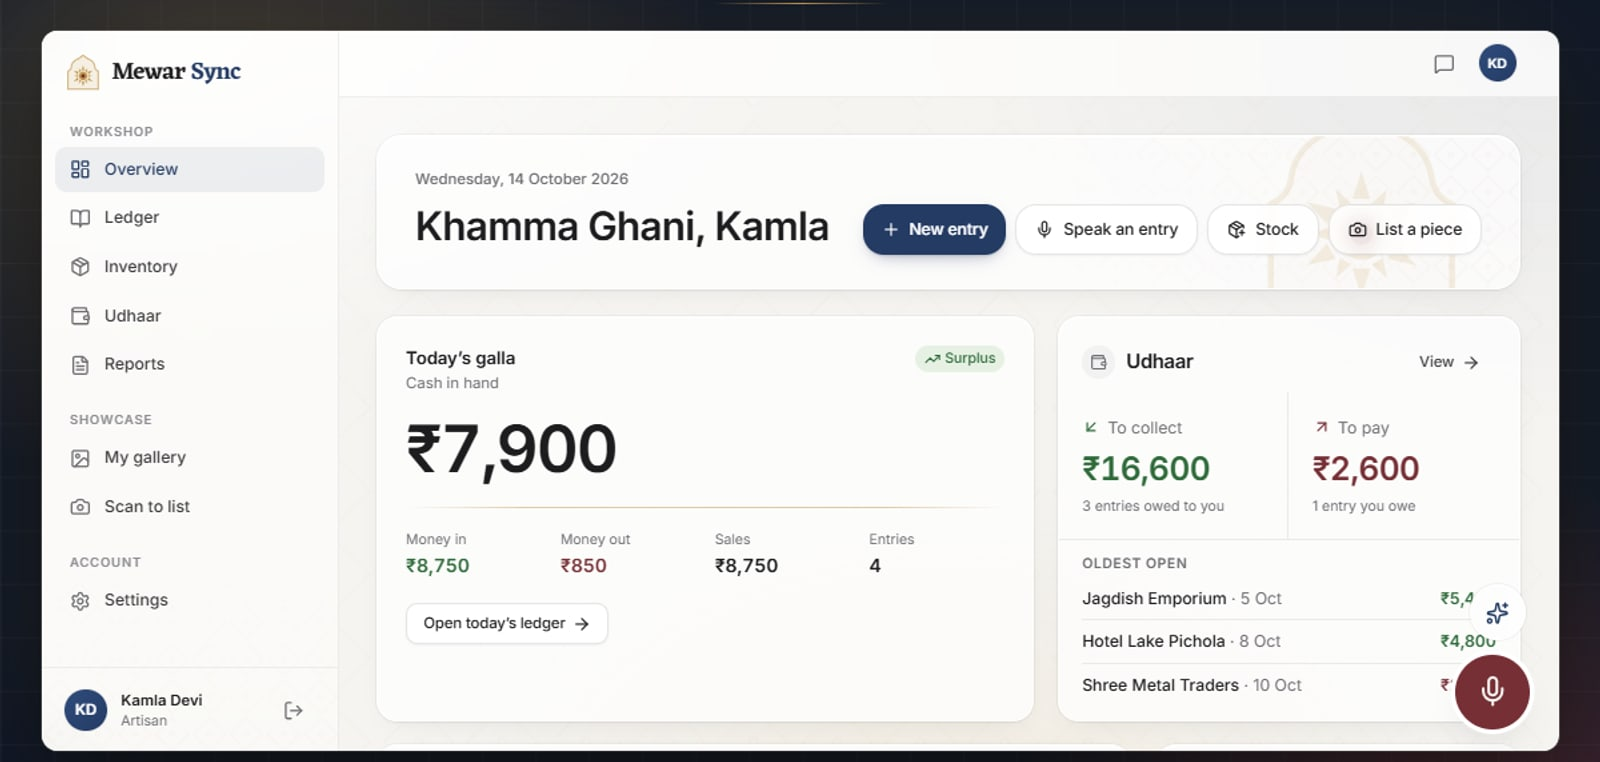
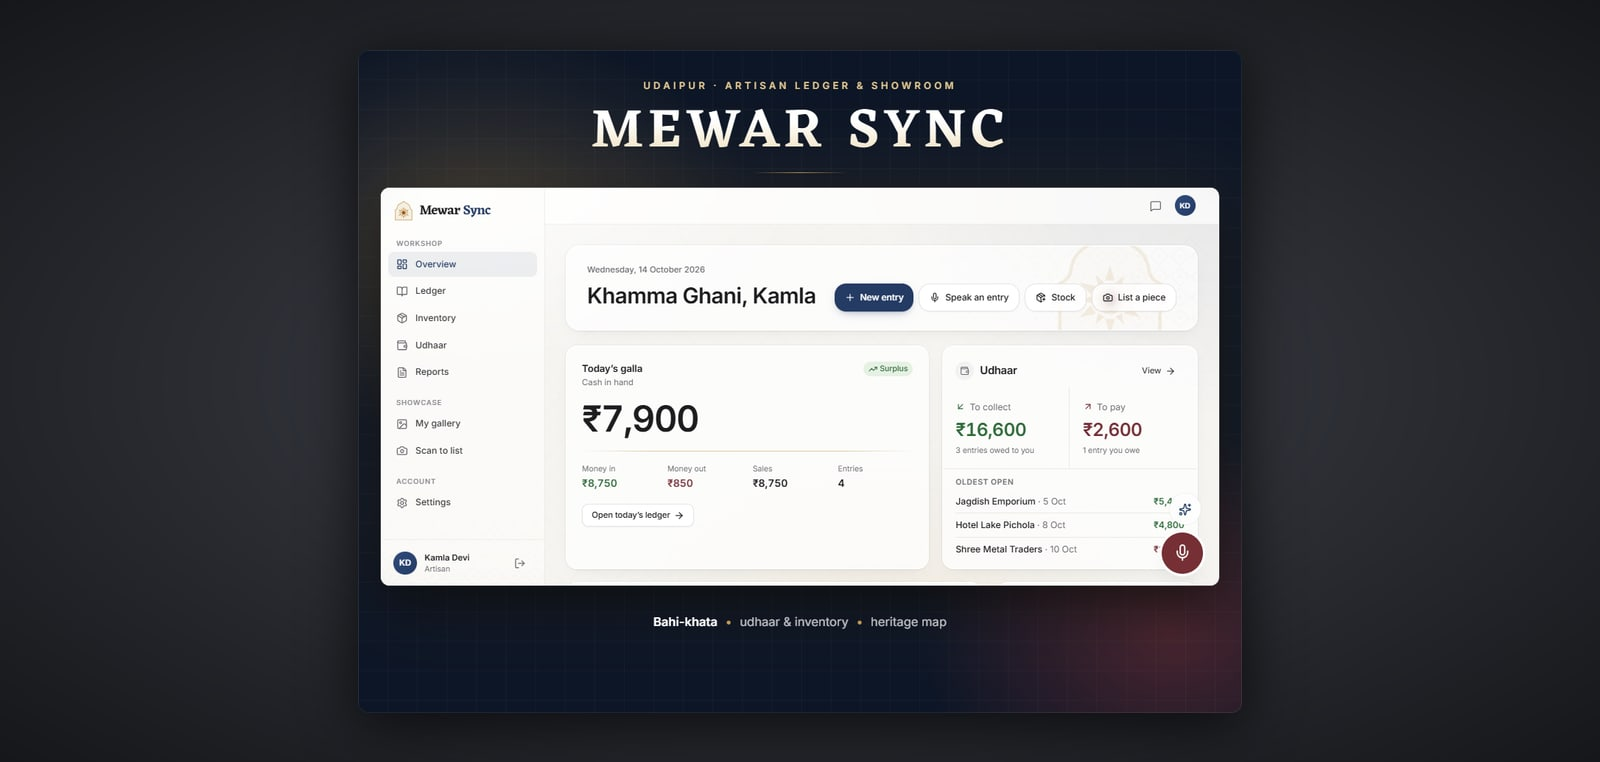
Update content

diff --git a/src/content/cms.js b/src/content/cms.js
@@ -39,7 +39,7 @@
  */
 export default {
   "maintenance": {
-    "on": true,
+    "on": false,
     "title": "We’ll be right back",
     "message": "We’re giving the site a tune-up — new work and a few fixes. It’ll be back shortly.",
     "back": ""
